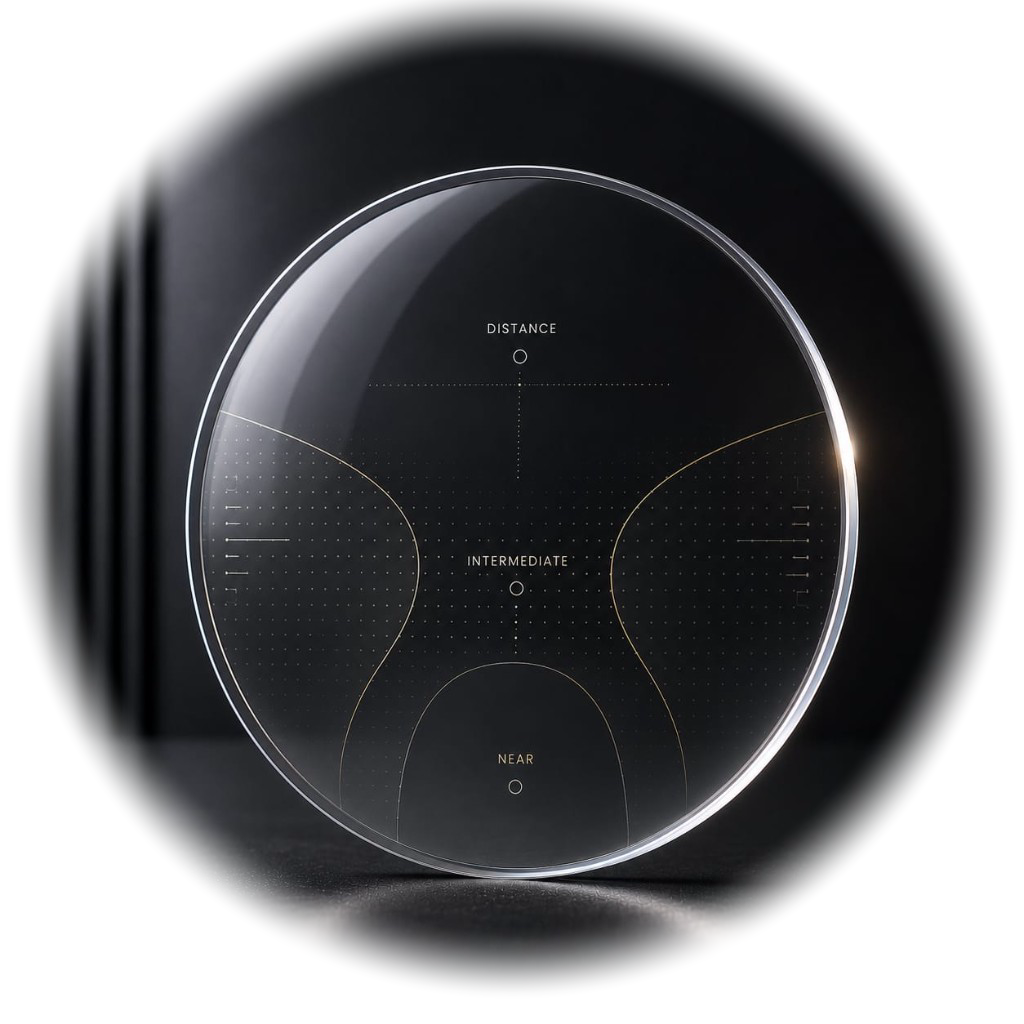
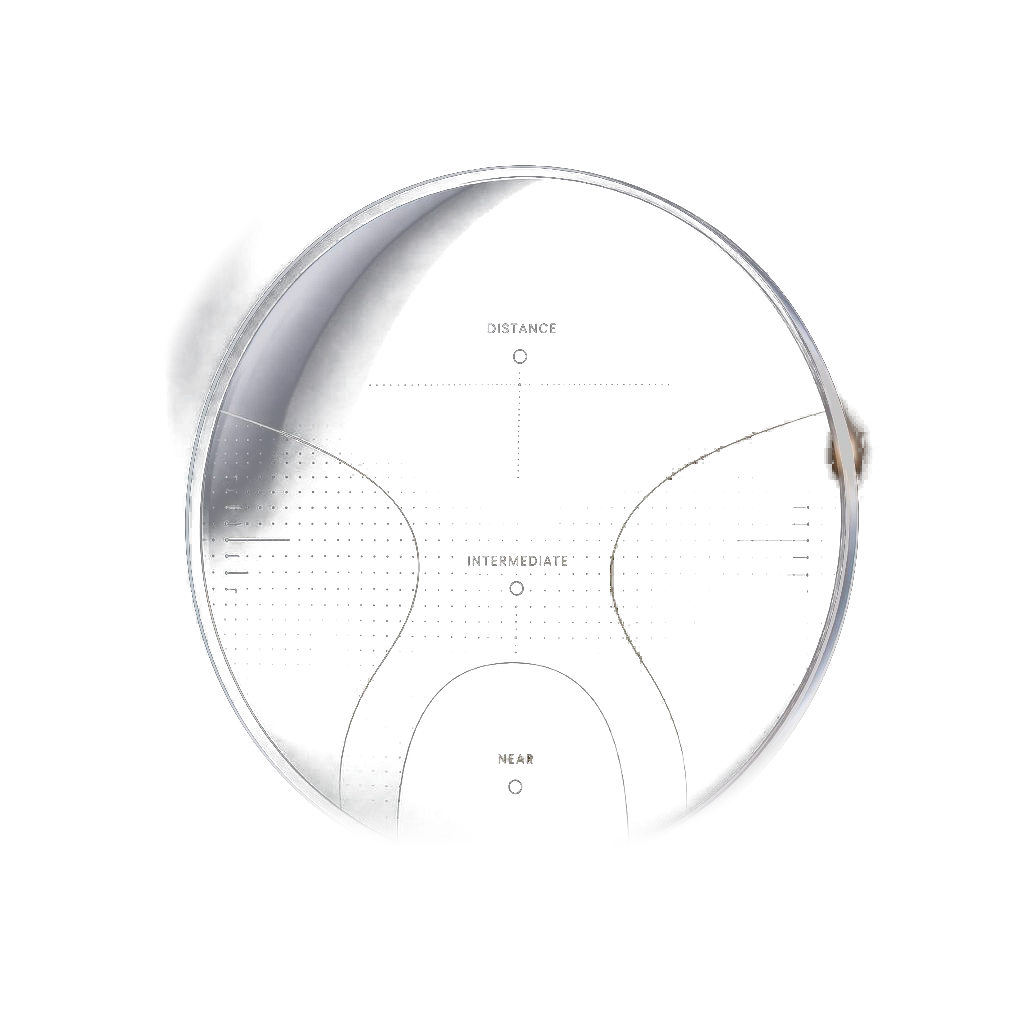
update lens img

diff --git a/app/globals.css b/app/globals.css
@@ -1668,46 +1668,9 @@ a.auth-button-outline:hover {
   }
 }
 
-/* Shop/wholesale category lens: keep the full lens, feather only outer corners. */
-.category-lens-bleed__glow {
-  position: absolute;
-  inset: 8%;
-  z-index: 0;
-  pointer-events: none;
-  border-radius: 50%;
-  background: radial-gradient(
-    circle at 50% 48%,
-    rgba(240, 161, 50, 0.14) 0%,
-    transparent 70%
-  );
-  filter: blur(18px);
-}
-
-.category-lens-bleed::before {
-  content: "";
-  position: absolute;
-  inset: 5%;
-  z-index: 0;
-  border-radius: 50%;
-  background: #f6f1e8;
-  border: 1px solid rgba(240, 161, 50, 0.22);
-  pointer-events: none;
-}
-
-.dark .category-lens-bleed::before,
-[data-theme="dark"] .category-lens-bleed::before {
-  display: none;
-}
-
-.dark .category-lens-bleed__glow,
-[data-theme="dark"] .category-lens-bleed__glow {
-  background: radial-gradient(
-    circle at 50% 48%,
-    rgba(255, 255, 255, 0.08) 0%,
-    rgba(240, 161, 50, 0.1) 40%,
-    transparent 72%
-  );
-  filter: blur(26px);
+/* Shop/wholesale category lens: glass cutout, no circular plate. */
+.category-lens-bleed {
+  background: transparent;
 }
 
 .category-lens-bleed__mask {
@@ -1721,13 +1684,13 @@ a.auth-button-outline:hover {
   -webkit-mask-image: radial-gradient(
     circle at 50% 48%,
     #000 0%,
-    #000 72%,
+    #000 88%,
     transparent 100%
   );
   mask-image: radial-gradient(
     circle at 50% 48%,
     #000 0%,
-    #000 72%,
+    #000 88%,
     transparent 100%
   );
   -webkit-mask-repeat: no-repeat;

diff --git a/components/shop/category-lens-bleed.tsx b/components/shop/category-lens-bleed.tsx
@@ -9,8 +9,8 @@ type CategoryLensBleedProps = {
 };
 
 /**
- * Photorealistic lens, fully visible and centered.
- * Mask only feathers the outer corners so the square photo bound disappears.
+ * Photorealistic glass cutout. Studio fill is already punched to alpha in the PNG.
+ * Mask only feathers square photo corners.
  */
 export function CategoryLensBleed({
   src,
@@ -25,7 +25,6 @@ export function CategoryLensBleed({
       )}
       aria-hidden={alt ? undefined : true}
     >
-      <span className="category-lens-bleed__glow" aria-hidden />
       <span className="category-lens-bleed__mask">
         {/* eslint-disable-next-line @next/next/no-img-element */}
         <img

diff --git a/lib/catalog-images-api.ts b/lib/catalog-images-api.ts
@@ -84,7 +84,7 @@ export function catalogImageForShopCategory(
 
 /**
  * Source for shop/wholesale category cards.
- * Light theme uses *-light.png (studio fill lifted to paper).
+ * Local *-lens / *-light PNGs have studio fill punched to alpha.
  */
 export function catalogImageUrlForShopCategory(
   data: CatalogImagesResponse | null,

diff --git a/public/images/catalog/README.md b/public/images/catalog/README.md
@@ -1,5 +1,7 @@
 # Shop lens category images
 
+Studio backdrop is punched to alpha so glass sits on the card in both themes.
+
 | Category | Dark | Light |
 | --- | --- | --- |
 | Single Vision | `/images/catalog/singlevision-lens.png` | `/images/catalog/singlevision-light.png` |
@@ -7,3 +9,9 @@
 | Progressive | `/images/catalog/progressive-lens.png` | `/images/catalog/progressive-light.png` |
 
 Basenames intentionally differ from `*.jpeg` catalog photos (Android drawable collision).
+
+Regenerate from the mobile app:
+
+```bash
+node scripts/process-lens-assets.js
+```
